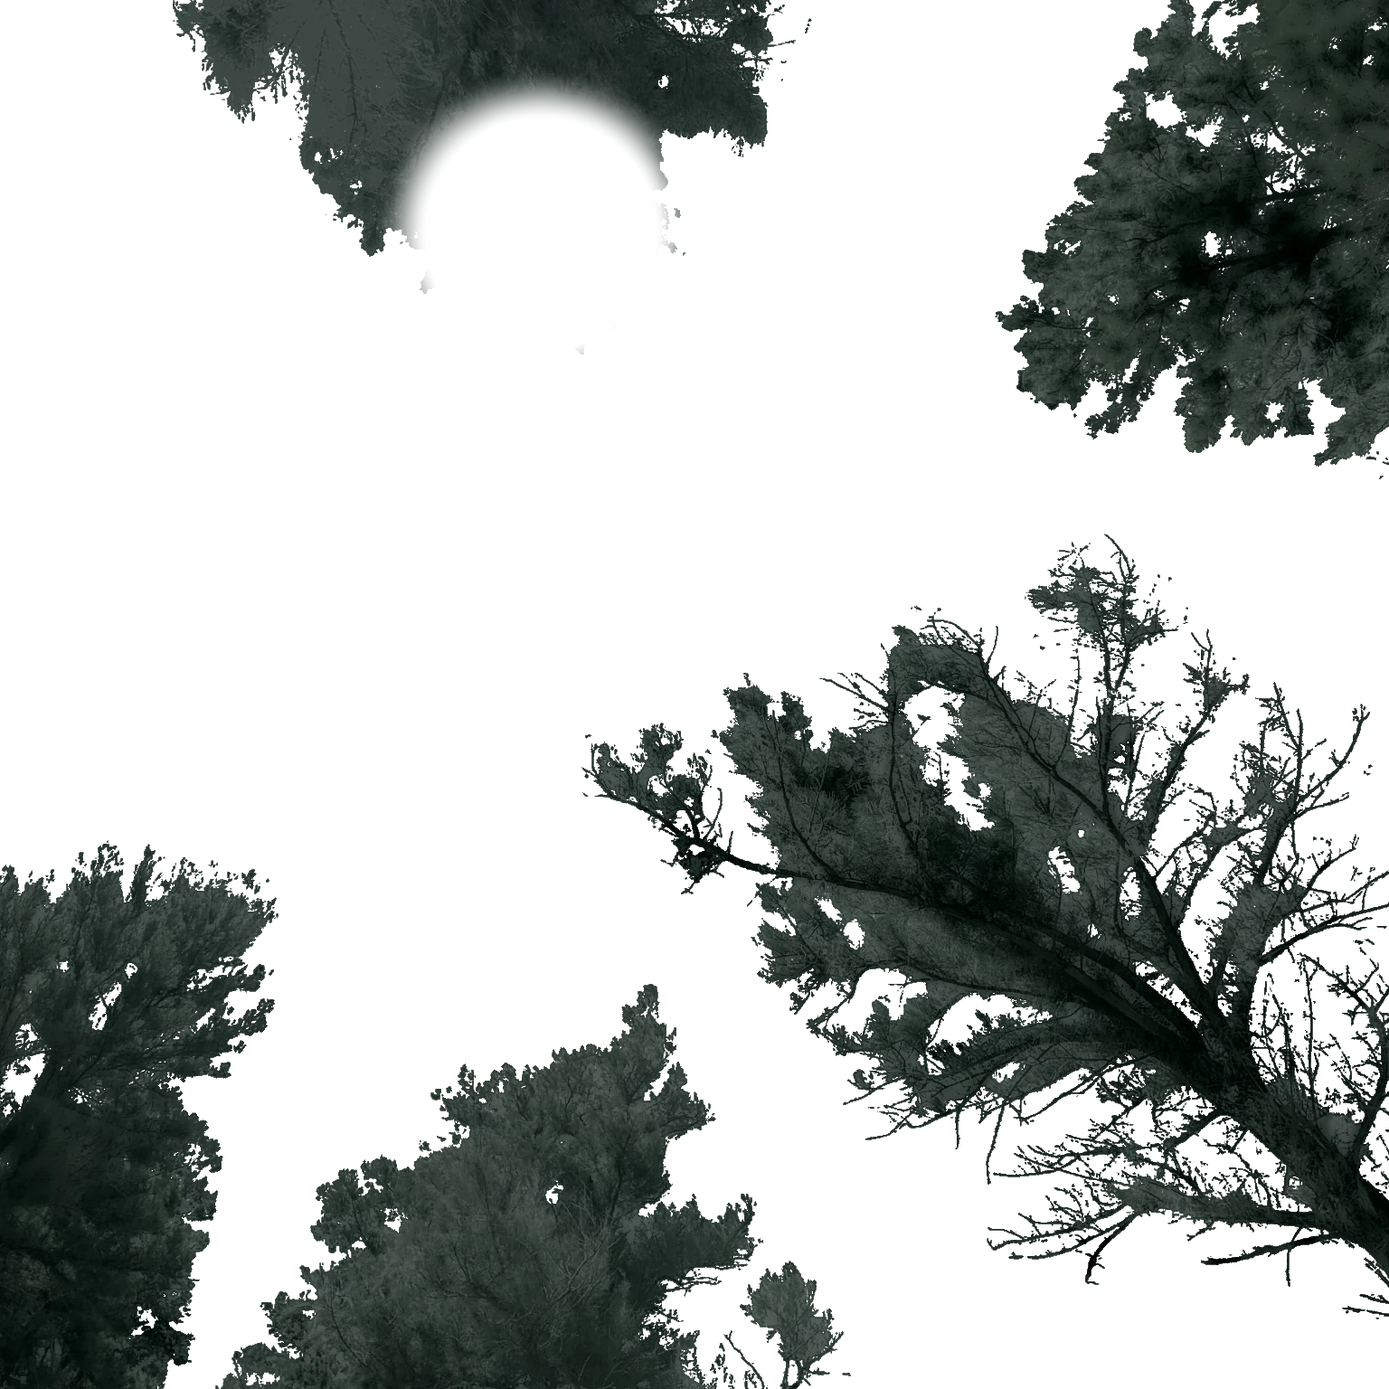
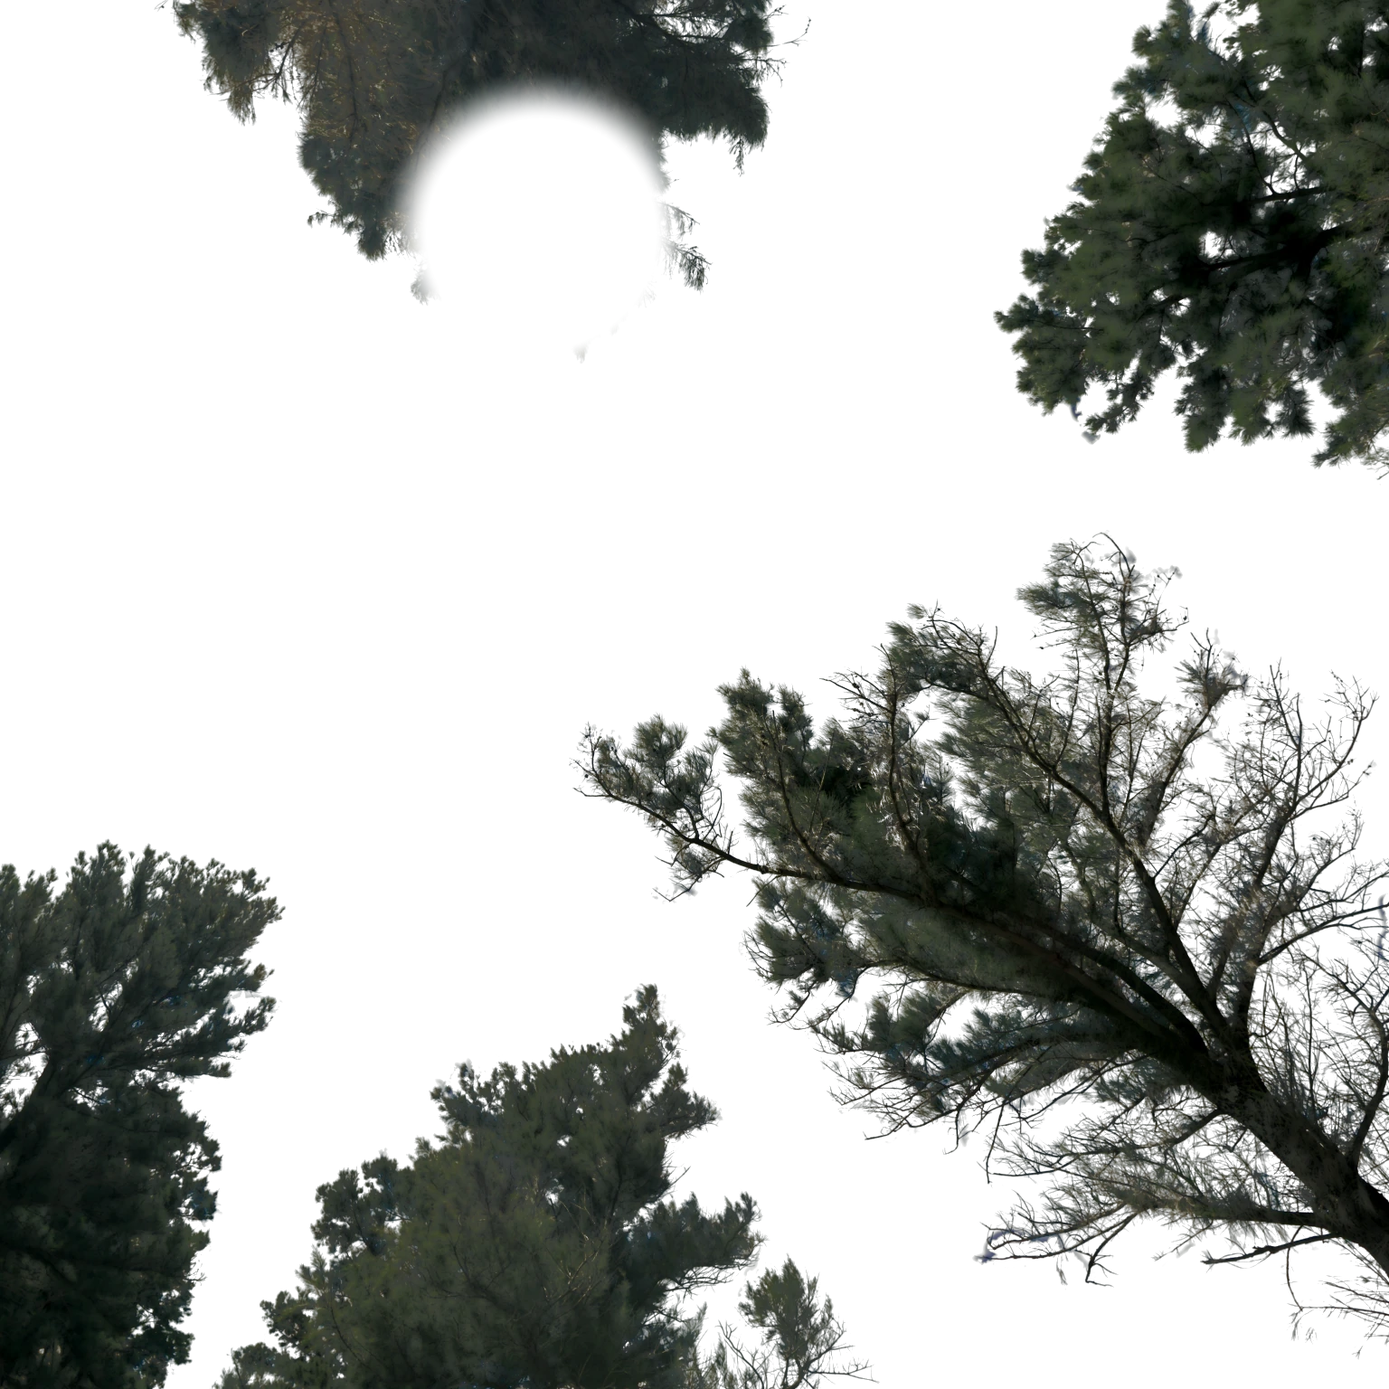
Lab: climb overexpose round 1
Claude-Session: https://claude.ai/code/session_01RqENhngNCzDFmJWDZueXGV

diff --git a/src/app/lab/overexpose/overexposeEngine.js b/src/app/lab/overexpose/overexposeEngine.js
@@ -109,12 +109,12 @@ export const FILM = {
   needleBloomCap: 0.85,
   needleHalCap: 0.6,
   needleCapEV: 2,
-  // The pines are their own layer (rekey.py): ink on a hard matte, laid over the
-  // sky after the Pro-Mist and the halation, so no glow washes blue into the
-  // foliage and the sky shows only through real gaps between the branches. At
-  // 0 EV the ink takes inkVeil of the veil and inkHal of the halation; both ease
-  // up to the full amounts by needleCapEV, where the overexposure is meant to
-  // lift and soften the shadows.
+  // The pines are their own layer (foliage.py): the needles' own radiance on the
+  // photograph's own sub-pixel coverage, laid over the sky after the Pro-Mist and
+  // the halation, so no glow washes blue into the foliage and the sky shows only
+  // through real gaps and thin sprays. At 0 EV the ink takes inkVeil of the veil
+  // and inkHal of the halation; both ease up to the full amounts by needleCapEV,
+  // where the overexposure is meant to lift and soften the shadows.
   inkVeil: 0,
   inkHal: 0.1,
   bloom: 0.08,
@@ -193,19 +193,21 @@ void main(){
   // Halation: light bounced off the base comes back through the red layer,
   // landing just outside bright areas (a ring, not a fill).
   L += uHalColor * max(Yb - dot(L, LUMA), 0.0) * uHal * (1.0 - uNeedleCap.y * needle);
-  // The pines, composited over the diffused sky (rekey.py): solid ink, the sky only
-  // in their real gaps, the edge a 1 px ramp from the matte.
+  // The pines (foliage.py): the needles' own radiance on the photograph's own
+  // sub-pixel coverage, composited over the diffused sky.
   vec4 tr = texture(uTrees, uv);
   vec3 ink = dec(tr.rgb);
   ink = mix(ink, D, uBloom * uInk.x);
   ink += uHalColor * max(Yb - dot(ink, LUMA), 0.0) * uHal * uInk.y;
-  L = mix(L, ink, tr.a);
-  Ys = mix(Ys, dot(ink, LUMA), tr.a);
   // The printer holds all but the cloud back (after the optics, so the hold does not
-  // read as a dark gap for the halation to fill).
+  // read as a dark gap for the halation to fill). The sky seen through a spray and
+  // the needles over it are held each by their own light before they mix, or the
+  // sky in a part-covered pixel escapes the hold and rings every twig in pale haze.
   float open = clamp((sc.a * 255.0 - 3.0) / 252.0, 0.0, 1.0); // 1 - the bake's cloud share
-  open *= mix(uHoldNeedle, 1.0, smoothstep(uHoldY.x, uHoldY.y, log2(max(Ys, 1e-6))));
-  L *= exp2(-uHold * open);
+  float holdSky = open * mix(uHoldNeedle, 1.0, smoothstep(uHoldY.x, uHoldY.y, log2(max(Ys, 1e-6))));
+  float holdInk = open * mix(uHoldNeedle, 1.0, smoothstep(uHoldY.x, uHoldY.y, log2(max(dot(ink, LUMA), 1e-6))));
+  L = mix(L * exp2(-uHold * holdSky), ink * exp2(-uHold * holdInk), tr.a);
+  open = mix(holdSky, holdInk, tr.a);
 
   // Negative: each layer on its own H&D curve.
   vec3 H = XT * L * uExp;

diff --git a/tools/depth/bakes/overexpose/foliage.py b/tools/depth/bakes/overexpose/foliage.py
@@ -1,0 +1,307 @@
+# The pines re-keyed from the HDRI's own radiance (replaces rekey.py's matte and ink).
+#
+# rekey.py made trees.webp from the tone-mapped bake: a steep threshold (0.44-0.56)
+# on an open share read from the bake's own colours, and a flat near-black ink
+# (a masked blur of the needles, with a little of the pixel's relief). So at 0 EV
+# the crowns printed as jagged, posterised stencils, the sparse diagonal pine as a
+# solid cut-out, and once the exposure lifted the shadows the ink opened into a
+# flat grey-green with a stamped, wavy texture: no needles anywhere. The plate
+# under the old matte was refilled by masked blurs, which (with the earlier
+# repaint and refit passes) left the sky at the right edge as smeared cloud
+# blotches, flat fills and branch ghosts.
+#
+# The photograph has all of it. As clouds.py does for the cumulus, the 8k
+# equirect is rendered through the bake's camera (deepen.py's; 3x supersampled),
+# where it lands on the bake pixel for pixel (crown.py's donor crown is the same
+# photograph), and:
+#   1. the matte is the photograph's own coverage, not a threshold: each pixel
+#      is unmixed in linear RGB between the light behind it (a masked blur of the
+#      open sky and cloud round it, refined once) and the local needle colour (a
+#      masked blur of the confident needles), alpha = (B - C).(B - F) / |B - F|^2.
+#      A twig a third of a pixel wide keeps a third of its pixel, so the edges and
+#      the needle sprays are sub-pixel soft at needle scale and as sharp as the
+#      lens left them. A small dead zone (A_DEAD) takes out the sky's own noise,
+#      only pixels near real needles count (cloud shading is not foliage), and
+#      the matte is lifted by A_FULL so a needle mass with lit tips stays solid;
+#   2. the ink is the needle mass's own radiance: in solid pixels the pixel
+#      itself, in mixed ones solved out of the mix, (C - (1 - a) B) / a, eased to
+#      the local needle colour as a pixel goes thin. It is taken down as a whole
+#      by one gain (so the median needle sits where rekey.py's ink sat and the
+#      piece's print curve still puts it near-black at 0 EV) and part-way to
+#      #141a18's hue (INK_COOL), but keeps every stop of its own relief: as the
+#      exposure lifts the shadows, the lit needles, branches and dark hollows
+#      open up as the photograph has them;
+#   3. the plate under the trees, and the strip at the right edge (STRIP) that
+#      the old passes had smeared, is rebuilt from the HDR too: the same
+#      photograph with the needles taken out (each covered pixel given the light
+#      behind it), shaded into cloud light exactly as clouds.py shades it, over
+#      the clean dome field of the open sky (a smooth fit of the bake's own open
+#      sky in log light, the hidden sun's glow included) times grain matched to
+#      the photograph's (amplitude, grain size and channel correlation measured
+#      on open sky). Its alpha (the sky hold's cloud key) is laid again from the
+#      new cloud depth, as clouds.py lays it;
+#   4. round the hidden sun (CROWN_DEG) the crown keeps crown.py's porous,
+#      glowing lip in the plate, and the matte fades out, as in rekey.py;
+#   5. the optics take the change of the visible scene (plate under the trees'
+#      matte) as their own blur, as clouds.py adds its change.
+#
+# Pipeline: run last, on copies of the shipped files (the old trees.webp only
+# gives the old matte, so the plate is refilled wherever it reached):
+#   python3 foliage.py <scene.webp> <trees.webp> <optics.png> <tree_lined_driveway_8k.hdr> [preview_dir]
+# The HDR's render through the camera is cached beside it (~28 MB, .wormseye1536ss3.npy).
+import sys, os; sys.path.insert(0, os.path.dirname(os.path.abspath(__file__)))
+import numpy as np
+from PIL import Image
+from scipy import ndimage as ndi
+import bake_wormseye as bw
+import deepen
+import canopy
+import clouds
+import sunburst
+import polarise
+import crown
+import wormseye_lib as wlib
+
+LUMA = np.array([0.2126, 0.7152, 0.0722])
+SS = 3                                   # supersampling of the render
+# 1. the matte
+OPEN_Q, OPEN_Y, OPEN_BRIGHT = 1.2, 0.1, 0.2     # HDR open light: blue sky (log2 B/R, luminance) or anything this bright
+NEED_Y, NEED_Q = 0.06, 0.6               # HDR confident needles: darker than this and not blue
+B_PX, F_PX = 3.0, 3.0                    # masked blurs of the light behind and of the needles (px)
+NEAR_PX = 10                             # only this close to real needles is anything foliage (px)
+A_DEAD = (0.04, 0.12)                    # the sky's own noise: coverage under this fades out
+A_FULL = 0.9                             # coverage over this is solid needle
+SUN_R = 70.0                             # px round the HDR's own (painted-out) sun: never foliage
+CROWN_DEG = (9.0, 13.0)                  # round the hidden sun the crown is left to crown.py (from, to)
+# 2. the ink
+SOLVE = (0.35, 0.85)                     # coverage over which the pixel's own solved light takes over from the local needle colour
+SOLVE_K = (0.3, 3.0)                     # ... never outside these multiples of it
+INK_COOL = 0.4                           # share of #141a18's chroma
+RELIEF = 1.0                             # the needles' own relief kept (log, round the median)
+# 3. the plate
+STRIP = (1120, 360, 1536, 940, 40)       # x0, y0, x1, y1, feather (px): the smeared strip at the right edge, rebuilt
+REFILL_PX = (4, 12)                      # the plate is rebuilt this far round the new matte and the old (px)
+GRAIN_BOX = (380, 420, 1000, 900)        # open sky the grain is measured on (x0, y0, x1, y1)
+FILL_PX = 4.0                            # under the needles the cloud is read from the open pixels round them (px)
+DITHER = 0.408 * (bw.HI - bw.LO) / 255   # the encoding's own TPDF dither (stops), not grain
+
+def smooth(a, lo, hi):
+    t = np.clip((a - lo) / (hi - lo), 0, 1)
+    return t * t * (3 - 2 * t)
+
+def render(hdr):
+    """The equirect through the bake's camera (deepen.py's), SS x supersampled."""
+    cache = hdr + '.wormseye1536ss3.npy'
+    if os.path.exists(cache):
+        return np.load(cache).astype(np.float64)
+    try:
+        import cv2
+        eq = cv2.imread(hdr, cv2.IMREAD_ANYDEPTH | cv2.IMREAD_COLOR)[..., ::-1].astype(np.float32)
+    except ImportError:
+        import hdrlib
+        eq = np.asarray(hdrlib.read_hdr(hdr))
+    R = wlib.rot(deepen.YAW, deepen.PITCH, deepen.ROLL)
+    n = deepen.SIZE
+    d = wlib.rays(n, deepen.FOV, 'stereo', ss=SS)
+    out = np.zeros((n, n, 3), np.float32)
+    for r0 in range(0, n * SS, 192):
+        out[r0 // SS:(r0 + 192) // SS] = wlib.sample(eq, d[r0:r0 + 192], R, SS)
+    np.save(cache, out)
+    return out.astype(np.float64)
+
+def nfield(x, m, s, c=0.03):
+    """Normalised convolution of x over the weights m, at s, 4 s and 16 s together: where m
+    is thin the wider scales take over smoothly (canopy.field's hard fallbacks leave discs)."""
+    x = x if x.ndim == 3 else x[..., None]
+    num = np.zeros_like(x); den = np.zeros(m.shape + (1,))
+    for k, ss in enumerate((s, 4 * s, 16 * s)):
+        wk = c ** k
+        num += wk * np.stack([ndi.gaussian_filter(x[..., i] * m, ss) for i in range(x.shape[-1])], -1)
+        den += wk * ndi.gaussian_filter(m, ss)[..., None]
+    out = num / np.maximum(den, 1e-12)
+    return out if out.shape[-1] > 1 else out[..., 0]
+
+def unmix(raw, B, F):
+    d = B - F
+    return np.clip(((B - raw) * d).sum(-1) / np.maximum((d * d).sum(-1), 1e-9), 0, 1)
+
+def coverage(raw):
+    """The needles' coverage of each pixel, the light behind and the needle colour."""
+    Y = raw @ LUMA
+    q = np.log2(np.maximum(raw[..., 2], 1e-6) / np.maximum(raw[..., 0], 1e-6))
+    open0 = ndi.binary_erosion(((q > OPEN_Q) & (Y > OPEN_Y)) | (Y > OPEN_BRIGHT), iterations=1)
+    need = ndi.binary_erosion((Y < NEED_Y) & (q < NEED_Q), iterations=1)
+    F = canopy.field(raw, need.astype(float), F_PX)
+    B = canopy.field(raw, open0.astype(float), 4.0)
+    a = unmix(raw, B, F)
+    # refined: the open light is what the first pass left uncovered (and the bright)
+    open1 = ((a < 0.04) | (Y > OPEN_BRIGHT + 0.02)) & ~ndi.binary_dilation(a > 0.5, iterations=1)
+    B = nfield(raw, open1.astype(float), B_PX)
+    a = unmix(raw, B, F)
+    # only near real needles, never the HDR's own sun
+    # (a twig over a bright cumulus is no darker than the open sky, but is half as bright as the cloud behind it, and not blue)
+    seed = ((a > 0.6) & (Y < 0.1)) | ((a > 0.5) & (Y < 0.5 * (B @ LUMA)) & (q < NEED_Q))
+    near = ndi.binary_dilation(seed, iterations=NEAR_PX)
+    near = ndi.gaussian_filter(near.astype(float), 2.0)
+    sy, sx = np.unravel_index(np.argmax(Y), Y.shape)
+    yy, xx = np.mgrid[0:Y.shape[0], 0:Y.shape[1]]
+    near *= smooth(np.hypot(yy - sy, xx - sx), SUN_R, SUN_R * 1.5)
+    a = a * near
+    return a, B, F, open1
+
+def ink(raw, a, B, F, old_ink, old_a):
+    """The needle mass's own light, solved out of the mixed pixels, taken down by one gain."""
+    Fl = canopy.field(raw, (a > 0.92).astype(float), 2.5)
+    an = np.maximum(a, 0.05)[..., None]
+    Fs = (raw - (1 - an) * B) / an
+    Fs = np.clip(Fs, SOLVE_K[0] * Fl, SOLVE_K[1] * Fl)
+    w = smooth(a, *SOLVE)[..., None]
+    lF = w * np.log2(np.maximum(Fs, 1e-6)) + (1 - w) * np.log2(np.maximum(Fl, 1e-6))
+    lY = np.log2(np.maximum(2.0 ** lF @ LUMA, 1e-6))
+    solid = (a > 0.92) & (old_a > 0.99)
+    med_new = np.median(lY[solid])
+    med_old = np.median(np.log2(np.maximum(old_ink[solid] @ LUMA, 1e-6)))
+    lYn = med_old + RELIEF * (lY - med_new)
+    chroma = 2.0 ** lF / (2.0 ** lY)[..., None]
+    chroma = (1 - INK_COOL) * chroma + INK_COOL * canopy.COOL
+    out = (2.0 ** lYn)[..., None] * chroma
+    print('ink: gain %.2f stops, relief p5-p95 %.2f stops' % (med_old - med_new, np.percentile(lY[a > 0.92], 95) - np.percentile(lY[a > 0.92], 5)))
+    return np.clip(out, 2.0 ** bw.LO, 2.0 ** bw.HI)
+
+def dome(pix, a8, region, g, strip):
+    """The clean dome field of the open sky: polarise.py's dome and crown.py's aureole
+    (the field every open sky pixel was left as, times its grain), with a smooth
+    low-order correction fitted in log light on the bake's own clean open sky."""
+    n = pix.shape[0]
+    elev, _ = deepen.geometry()
+    T = polarise.sky_field(90.0 - elev)
+    N = T + crown.aureole(T, g)
+    q = np.log2(np.maximum(pix[..., 2], 1e-6) / np.maximum(pix[..., 0], 1e-6))
+    clean = (a8 >= 250) & (q > 1.0) & (g > 14) & (strip < 0.01)
+    clean &= ~region
+    yy, xx = np.mgrid[0:n, 0:n] / (n - 1) * 2 - 1
+    X = np.stack([np.ones_like(xx), xx, yy, xx * xx, xx * yy, yy * yy], -1).reshape(-1, 6)
+    idx = np.flatnonzero(clean.ravel())[::3]
+    r = np.log2(np.maximum(pix, 1e-6) / N).reshape(-1, 3)
+    coef, *_ = np.linalg.lstsq(X[idx], r[idx], rcond=None)
+    fit = (X @ coef).reshape(n, n, 3)
+    res = r.reshape(n, n, 3) - fit
+    print('dome: fit on %d px, correction %s stops at centre, residual %.3f stops rms' % (
+        idx.size, np.round(coef[0], 3), float(np.sqrt((res[clean] ** 2).mean()))))
+    return N * 2.0 ** fit, clean
+
+def grain(pix, shape, rng):
+    """Gaussian grain matched to the photograph's on open sky: amplitude, grain size, channel correlation."""
+    x0, y0, x1, y1 = GRAIN_BOX
+    lp = np.log2(pix[y0:y1, x0:x1])
+    r = lp - ndi.gaussian_filter(lp, (4, 4, 0))
+    r = r[8:-8, 8:-8].reshape(-1, 3)
+    cov = np.cov(r.T) - np.eye(3) * DITHER ** 2
+    w, v = np.linalg.eigh(cov)
+    L = v @ np.diag(np.sqrt(np.maximum(w, 1e-8)))
+    rr = (lp - ndi.gaussian_filter(lp, (4, 4, 0)))[8:-8, 8:-8]
+    rho = float(np.mean([np.corrcoef(rr[:, :-1, c].ravel(), rr[:, 1:, c].ravel())[0, 1] for c in range(3)]))
+    s = np.sqrt(-1 / (4 * np.log(np.clip(rho, 0.02, 0.98)))) if rho > 0.02 else 0.0
+    wn = rng.standard_normal(shape + (3,))
+    if s > 0.3:
+        wn = ndi.gaussian_filter(wn, (s, s, 0))
+    wn = (wn - ndi.gaussian_filter(wn, (4, 4, 0)))
+    wn /= wn.reshape(-1, 3).std(0)
+    print('grain: sd %s stops, lag-1 %.2f -> sigma %.2f px' % (np.round(np.sqrt(np.diag(cov)), 4), rho, s))
+    return 2.0 ** (wn @ L.T)
+
+def background(raw, a, B, F, pix, a8, region, g, strip, rng):
+    """The light behind the trees, from the HDR with the needles taken out, in the bake's grade."""
+    # each pixel unmixed (its needle share taken out) while it is mostly open, the
+    # light behind round it once the needles hold most of it
+    an = np.minimum(a, 0.6)[..., None]
+    un = np.maximum((raw - an * F) / (1 - an), 0.5 * raw)
+    wu = smooth(a, 0.3, 0.55)[..., None]
+    bare = (1 - wu) * un + wu * B
+    # clouds.py counts only cloud its old key knew of; under the trees (and in the
+    # strip) that key was the trees', so there the HDR's own cloud counts
+    a8k = np.where(region & (g > clouds.KEY_GLOW_DEG), 0, a8)
+    d, seen, C, _, key = clouds.depth(bare, a8k)
+    lr, face, _ = clouds.shade(C, d, seen)
+    Yn = np.minimum(clouds.Y_TOP * 2.0 ** (lr + clouds.FACE_STOPS * face), clouds.Y_MAX)
+    lit = np.clip(smooth(lr, *clouds.LIT) + clouds.FACE_LIT * face, 0, 1)
+    top_c, und_c = clouds.TOP / (clouds.TOP @ LUMA), clouds.UNDER / (clouds.UNDER @ LUMA)
+    col = np.exp(np.log(und_c) * (1 - lit[..., None]) + np.log(top_c) * lit[..., None])
+    col /= (col @ LUMA)[..., None]
+    Cn = Yn[..., None] * col
+    # the needles' own neutral light reads as a little cloud wherever they cover any of a
+    # pixel, and would print a pale haze round every spray: under the needles the depth
+    # and the cloud light are those of the open pixels round them
+    ok = ((a < 0.03) & ~ndi.binary_dilation(a > 0.1, iterations=1)).astype(float)
+    wd = np.maximum(smooth(a, 0.02, 0.1), ndi.gaussian_filter(1 - ok, 1.0))
+    d_f = nfield(d, ok, FILL_PX)
+    Cn_f = nfield(Cn, ok * smooth(d, 0.2, 0.4), FILL_PX)
+    d = (1 - wd) * d + wd * d_f
+    Cn = Cn + wd[..., None] * (Cn_f - Cn)
+    D, clean = dome(pix, a8, region, g, strip)
+    G = grain(pix, pix.shape[:2], rng)
+    bg = (1 - d)[..., None] * D * G + d[..., None] * Cn
+    share = d + (1 - d) * sunburst.KEY_A * np.exp(-g / sunburst.KEY_DEG)
+    a_bg = 3 + 252 * np.round((1 - np.clip(share, 0, 1)) * 63) / 63
+    return bg, a_bg, d, clean
+
+def strip_mask(n):
+    x0, y0, x1, y1, f = STRIP
+    yy, xx = np.mgrid[0:n, 0:n]
+    inside = ((xx >= x0) & (xx < x1) & (yy >= y0) & (yy < y1)).astype(float)
+    return ndi.gaussian_filter(inside, f / 2.5)
+
+def foliage(pix, a8, old_ink, old_a, raw, rng):
+    n = pix.shape[0]
+    _, g = deepen.geometry()
+    w = smooth(g, *CROWN_DEG)
+    a, B, F, _ = coverage(raw)
+    a_s = a * smooth(a, *A_DEAD)
+    a_s = np.clip(a_s / A_FULL, 0, 1) * w
+    a_s[a_s < 0.004] = 0
+    I = ink(raw, a, B, F, old_ink, old_a)
+    strip = strip_mask(n)
+    # the plate is rebuilt under the new matte and the old one (and round them), and in the strip
+    reach = ndi.binary_dilation(a_s > 0.004, iterations=REFILL_PX[0]) | ndi.binary_dilation(old_a > 0.004, iterations=REFILL_PX[1])
+    bg, a_bg, d, clean = background(raw, a, B, F, pix, a8, ndi.binary_dilation(reach | (strip > 0.01), iterations=16), g, strip, rng)
+    m = np.maximum(ndi.gaussian_filter(reach.astype(float), 1.5), strip) * (w > 0.999)
+    m = ndi.gaussian_filter(m, 0.7) * (w > 0.999)
+    plate = pix + m[..., None] * (bg - pix)
+    a8n = np.clip(np.round(a8 + m * (a_bg - a8)), 0, 255).astype(np.uint8)
+    return plate, a8n, I, a_s, dict(a=a, d=d, m=m, clean=clean, bg=bg)
+
+if __name__ == '__main__':
+    s = np.asarray(Image.open(sys.argv[1]).convert('RGBA'))
+    s8, a8 = s[..., :3], s[..., 3]
+    t = np.asarray(Image.open(sys.argv[2]).convert('RGBA'))
+    old_ink, old_a = bw.dec_log(t[..., :3]), t[..., 3] / 255.0
+    g8 = np.asarray(Image.open(sys.argv[3]).convert('RGB'))
+    raw = render(sys.argv[4])
+    pix = bw.dec_log(s8)
+    rng = np.random.default_rng(41)
+    plate, a8n, I, a, diag = foliage(pix, a8, old_ink, old_a, raw, rng)
+    changed = np.abs(np.log2(plate / pix)).max(-1) > 1e-3
+    s8n = np.where(changed[..., None], bw.enc_log(plate, rng), s8).astype(np.uint8)
+    # the optics take the change of the visible scene
+    vis_old = pix * (1 - old_a[..., None]) + old_ink * old_a[..., None]
+    vis_new = plate * (1 - a[..., None]) + I * a[..., None]
+    d_opt = bw.optics(vis_new - vis_old)
+    glow = np.maximum(bw.dec_log(g8) + d_opt, 2.0 ** bw.LO)
+    g8n = np.where((np.abs(d_opt) > 1e-6).any(-1, keepdims=True), bw.enc_log(glow, rng), g8).astype(np.uint8)
+    # outside the matte the ink's RGB carries the nearest ink, so the lossy chroma never bleeds
+    inside = a > 0
+    idx = ndi.distance_transform_edt(~inside, return_distances=False, return_indices=True)
+    ink8 = bw.enc_log(I, rng)[idx[0], idx[1]]
+    a8m = np.clip(np.round(a * 255), 0, 255).astype(np.uint8)
+    print('matte cover %.3f (solid %.3f), plate changed %.3f' % (float(inside.mean()), float((a > 0.99).mean()), float(changed.mean())))
+    out = sys.argv[5] if len(sys.argv) > 5 else bw.OUT
+    if len(sys.argv) > 5:
+        v = np.stack([diag['a'], diag['d'], diag['m']], -1)
+        Image.fromarray((np.clip(v, 0, 1) * 255).astype(np.uint8)).save(os.path.join(out, 'foliage_diag.png'))
+    Image.fromarray(np.dstack([s8n, a8n]), 'RGBA').save(
+        os.path.join(out, 'scene.webp'), 'WEBP', quality=94, alpha_quality=100, method=6, exact=True)
+    Image.fromarray(np.dstack([ink8, a8m]), 'RGBA').save(
+        os.path.join(out, 'trees.webp'), 'WEBP', quality=92, alpha_quality=100, method=6, exact=True)
+    Image.fromarray(g8n, 'RGB').save(os.path.join(out, 'optics.png'), optimize=True)
+    for f in ('scene.webp', 'trees.webp', 'optics.png'):
+        print(f, os.path.getsize(os.path.join(out, f)) // 1024, 'KB')

diff --git a/tools/depth/bakes/overexpose/bake_wormseye.py b/tools/depth/bakes/overexpose/bake_wormseye.py
@@ -9,6 +9,8 @@
 #     && python3 crown.py <copy of scene.webp> <copy of optics.png> <donor.webp>  (once: the top crown re-keyed from real needles, radial aureole)
 #     && python3 clouds.py <copy of scene.webp> <copy of optics.png> <tree_lined_driveway_8k.hdr>  (cumulus re-shaded from the HDR's own radiance)
 #     && python3 rekey.py <copy of scene.webp>   (once: the pines as ink on a hard matte -> trees.webp, the plate under them refilled with sky)
+#     && python3 foliage.py <copy of scene.webp> <copy of trees.webp> <copy of optics.png> <tree_lined_driveway_8k.hdr>
+#                (the pines re-keyed from the HDR's own radiance: soft coverage matte + real needle light -> trees.webp; plate and right-edge strip rebuilt)
 # (OE_WORK holds the 8k caches). bake.py is the earlier rectilinear bake, kept for reference.
 import numpy as np, io, os, sys
 from PIL import Image

diff --git a/tools/depth/bakes/overexpose/rekey.py b/tools/depth/bakes/overexpose/rekey.py
@@ -1,3 +1,6 @@
+# Superseded by foliage.py, which re-keys the pines from the HDRI's own radiance
+# (its threshold matte and flat ink printed as jagged stencils). Kept for the record.
+#
 # The pines re-keyed as ink over the sky (runs last, after clouds.py).
 #
 # canopy.py left each pine as a soft per-pixel mix of needle and sky, baked into
